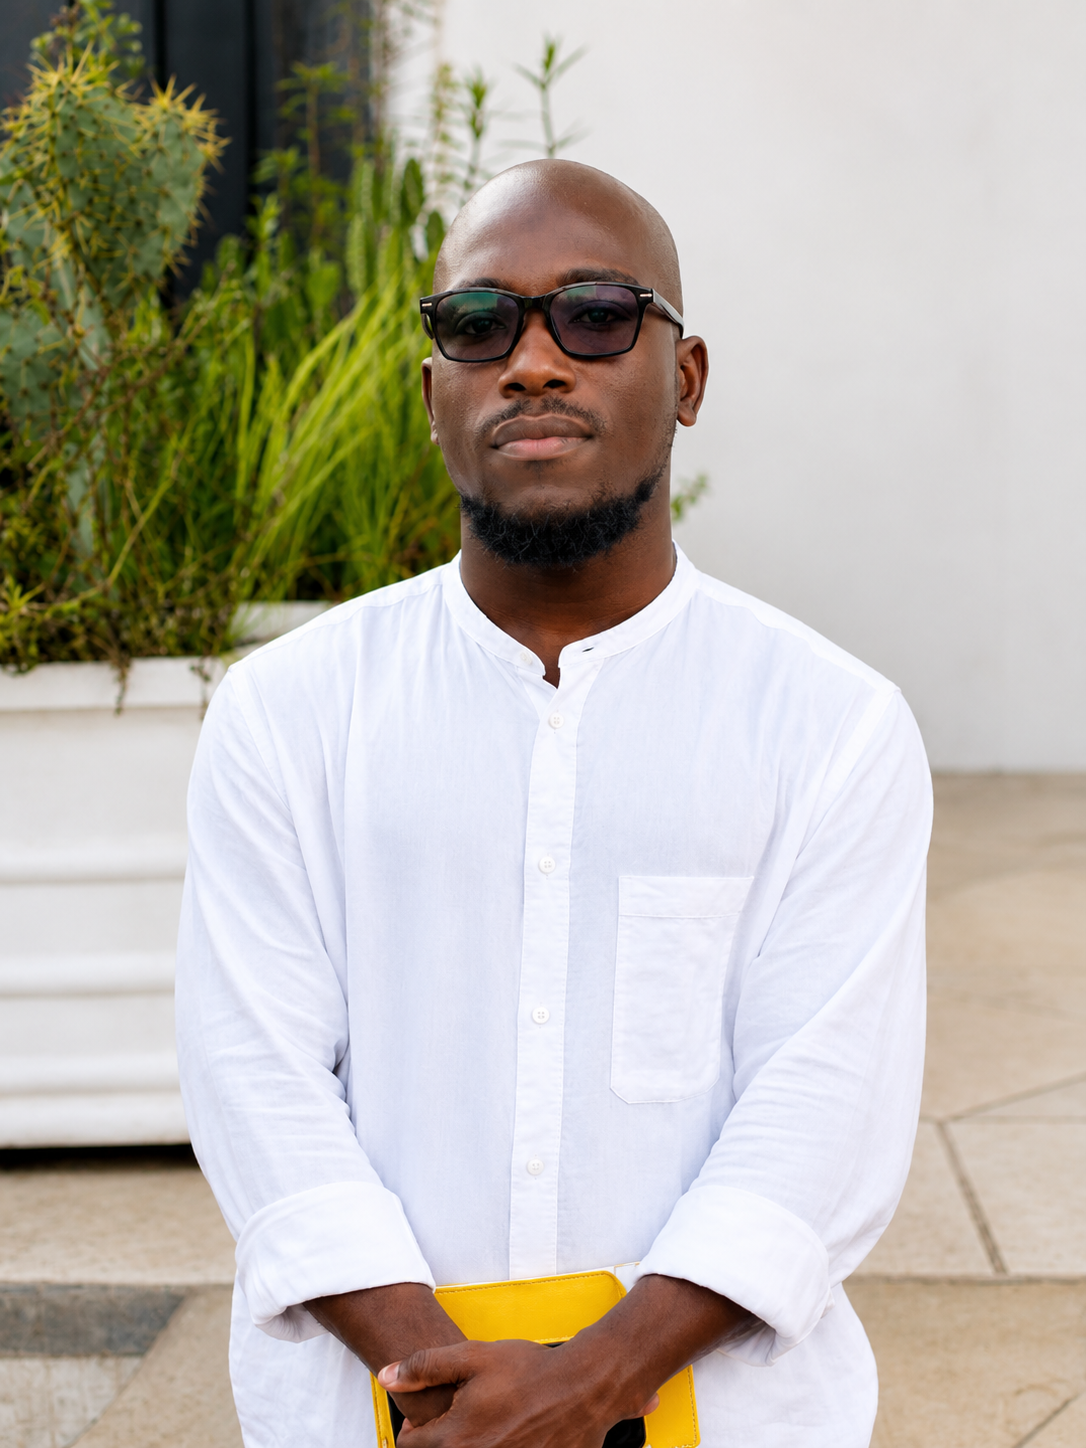
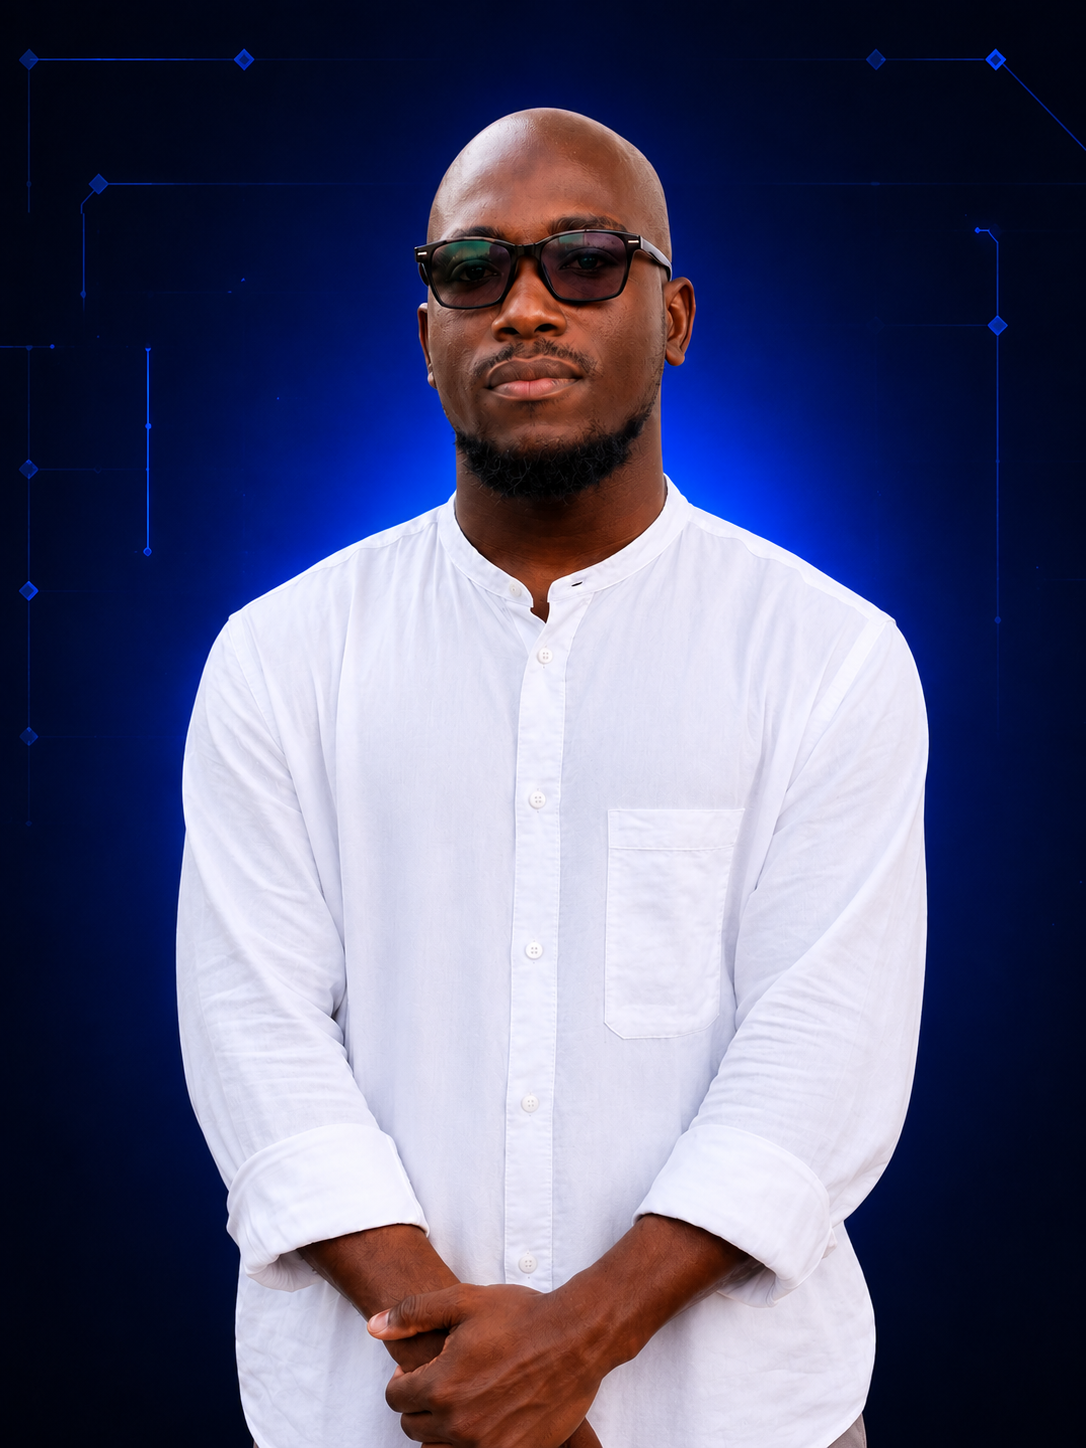
Add portfolio project previews

diff --git a/index.html b/index.html
@@ -23,7 +23,7 @@
     </nav>
 
     <div class="sidebar-bottom">
-      <p>© 2025 Bakary Abdul Wadoud Ajao. Tous droits réservés.</p>
+      <p>© 2025 Bakary Abdoul Wadoud Adjaho. Tous droits réservés.</p>
       <div class="socials">
         <a href="#" aria-label="GitHub">gh</a>
         <a href="#" aria-label="LinkedIn">in</a>
@@ -36,7 +36,7 @@
     <section class="hero panel" id="accueil">
       <div class="hero-text">
         <span class="tag"><span></span> Portfolio</span>
-        <h1>Bakary Abdul<br><strong>Wadoud Ajao</strong></h1>
+        <h1>Bakary Abdoul<br><strong>Wadoud Adjaho</strong></h1>
         <h2>Développeur Web & Mobile en formation</h2>
         <p>
           Passionné par la technologie et le développement d'applications modernes
@@ -70,7 +70,7 @@
 
       <div class="hero-photo">
         <div class="photo-deco"></div>
-        <img src="assets/ABDOUL.png" alt="Portrait de Bakary Abdul Wadoud Ajao">
+        <img src="assets/abdoul.png" alt="Portrait de Bakary Abdul Wadoud Ajao">
       </div>
     </section>
 